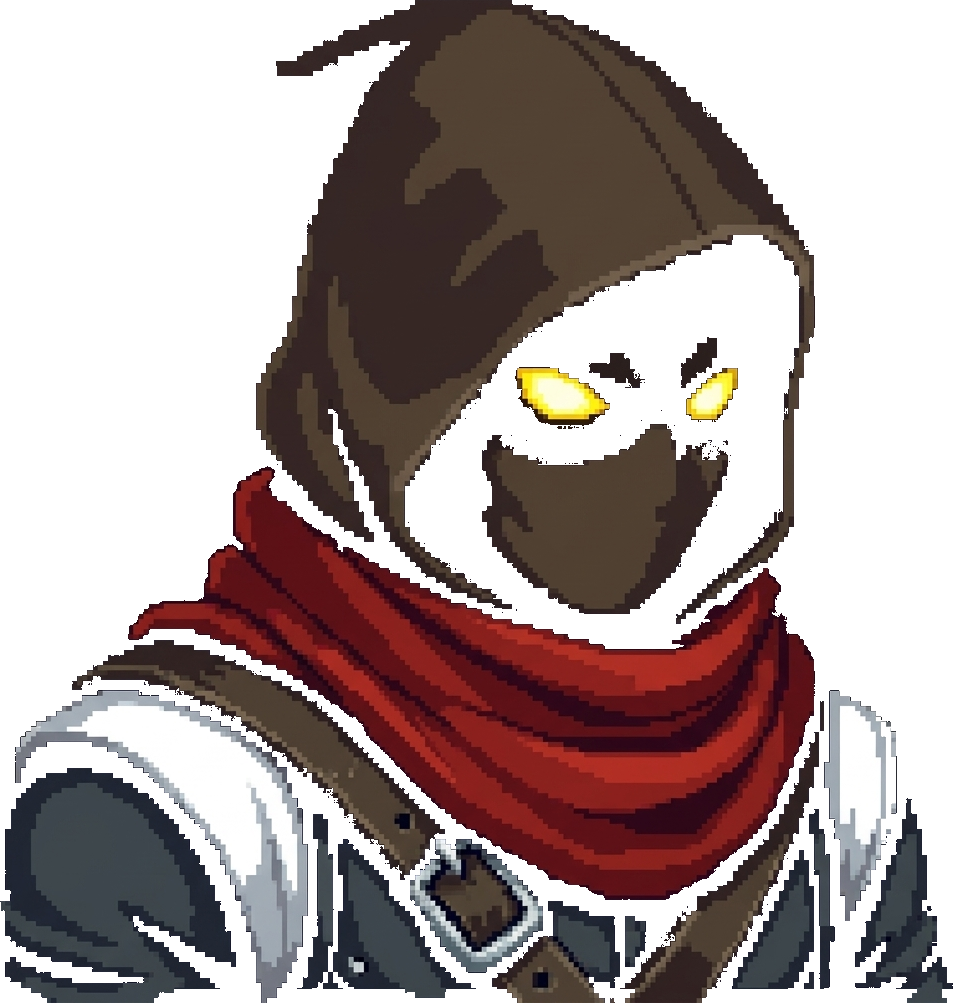
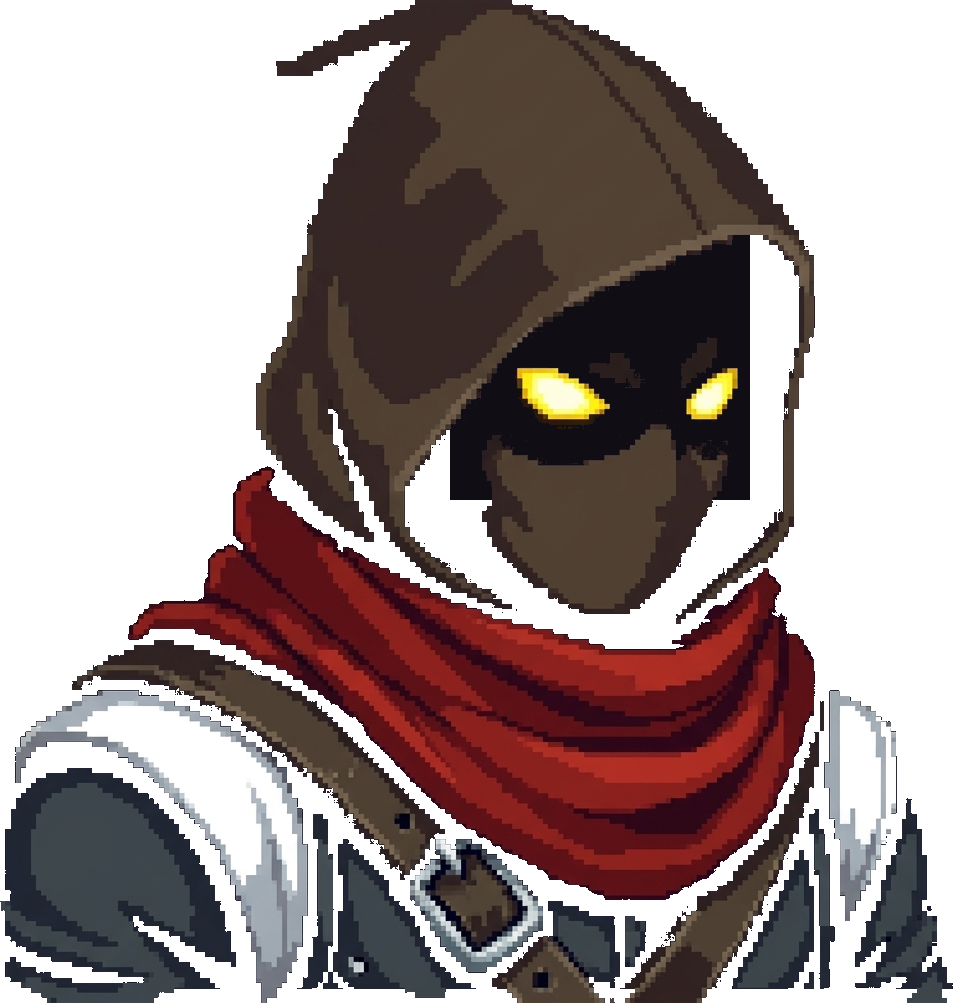
fix(combat): solidify rogue sprite, dim arena background, add victory countdown modal, and halve QTE shrink speed

Changed region(s): [[0.4565, 0.2164, 0.7912, 0.5254]]

diff --git a/src/frontends/pygame_ce/views/combat_view.py b/src/frontends/pygame_ce/views/combat_view.py
@@ -27,7 +27,7 @@ from src.core.theme import ThemeToken
 from src.frontends.pygame_ce.asset_manager import assets
 from src.frontends.pygame_ce.components.top_hud import TopHUDComponent
 from src.frontends.pygame_ce.views.base import PygameView
-from src.systems.combat import ACTION_THRESHOLD
+from src.systems.combat import ACTION_THRESHOLD, CombatResult
 from src.systems.inventory import MAX_BELT_SLOTS
 
 if TYPE_CHECKING:
@@ -64,6 +64,10 @@ class PygameCombatView(PygameView):
         self.selected_belt_idx: int = 0
 
         # Clickable rects for mouse interaction
+        self.victory_active: bool = False
+        self.victory_timer: float = 0.0
+        self.victory_duration: float = 2.5
+
         self.arena_rect = pygame.Rect(8, 56, 944, 176)
         self.speed_btn_rect = pygame.Rect(860, 64, 84, 26)
         self.belt_rects = [
@@ -93,6 +97,10 @@ class PygameCombatView(PygameView):
             return
 
         combat = session.combat
+
+        # Invalidate all player actions if battle is finished or victory modal is active
+        if self.victory_active or not combat.is_active() or combat.result != CombatResult.IN_PROGRESS:
+            return
 
         # If QTE is active, handle QTE key/mouse interaction
         if combat.is_qte_active() and combat.active_qte:
@@ -255,7 +263,38 @@ class PygameCombatView(PygameView):
             p.lifetime -= dt
         self.popups = [p for p in self.popups if p.lifetime > 0]
 
-        if not session.combat or not session.combat.is_active():
+        if not session.combat:
+            return
+
+        combat = session.combat
+
+        # 1. Player Defeat: immediately progress to defeat view (no victory modal)
+        if combat.result == CombatResult.PLAYER_DEFEAT or session.player.current_hp <= 0:
+            combat.completion_delay_ticks = 0
+            session.update_combat()
+            return
+
+        # 2. Player Victory: trigger golden victory modal and 2.5s countdown
+        if combat.result == CombatResult.PLAYER_VICTORY or (combat.enemy and combat.enemy.current_hp <= 0):
+            if not self.victory_active:
+                self.victory_active = True
+                self.victory_timer = self.victory_duration
+                try:
+                    from src.systems.audio_manager import audio_manager, AudioCue
+                    audio_manager.play_cue(AudioCue.VICTORY)
+                except Exception:
+                    pass
+
+            self.victory_timer -= dt
+            if self.victory_timer <= 0.0:
+                self.victory_active = False
+                combat.completion_delay_ticks = 0
+                session.update_combat()
+            return
+
+        if not combat.is_active():
+            combat.completion_delay_ticks = 0
+            session.update_combat()
             return
 
         # Advance QTE if active
@@ -333,6 +372,11 @@ class PygameCombatView(PygameView):
             surface.blit(arena_bg, arena_rect.topleft)
         else:
             pygame.draw.rect(surface, (18, 15, 25), arena_rect)
+
+        # Dim arena background slightly so combatant sprites pop and do not blend into scenery
+        arena_dim = pygame.Surface((arena_rect.width, arena_rect.height), pygame.SRCALPHA)
+        arena_dim.fill((0, 0, 0, 75))
+        surface.blit(arena_dim, arena_rect.topleft)
 
         # Vignette / subtle dark gradient along the top and bottom of arena
         vignette = pygame.Surface((arena_rect.width, 30), pygame.SRCALPHA)
@@ -828,6 +872,12 @@ class PygameCombatView(PygameView):
         if combat.is_qte_active() and combat.active_qte:
             self._draw_qte(surface, renderer, combat.active_qte)
 
+        # =========================================================================
+        # 8. VICTORY NOTIFICATION MODAL
+        # =========================================================================
+        if self.victory_active:
+            self._draw_victory_modal(surface, renderer, session)
+
         # Restore un-shaked surface if shake was applied
         if orig_surface != surface:
             orig_surface.blit(surface, (ox, oy))
@@ -996,3 +1046,96 @@ class PygameCombatView(PygameView):
             pygame.draw.circle(surface, (15, 15, 20), (tx, ty), br)
             pygame.draw.circle(surface, tier_col, (tx, ty), br, width=3)
             renderer.draw_text(surface, f"{target.tier.upper()} {target.score}%", tx, ty - 8, token=ThemeToken.TEXT_HIGHLIGHT, size=13, bold=True, align="center")
+
+    def _draw_victory_modal(self, surface: pygame.Surface, renderer: PygameRenderer, session: GameSession) -> None:
+        """Render centered victory notification modal with 9-slice frame, gold typography, and countdown."""
+        w, h = surface.get_width(), surface.get_height()
+        combat = session.combat
+        if not combat:
+            return
+        enemy = combat.enemy
+
+        # 1. Dark semi-transparent dim backdrop across entire screen
+        backdrop = pygame.Surface((w, h), pygame.SRCALPHA)
+        backdrop.fill((0, 0, 0, 140))
+        surface.blit(backdrop, (0, 0))
+
+        # 2. Modal dimensions and placement
+        modal_w, modal_h = 440, 160
+        modal_rect = pygame.Rect((w - modal_w) // 2, (h - modal_h) // 2, modal_w, modal_h)
+
+        # Modal solid dark gothic interior
+        modal_bg = pygame.Surface((modal_rect.width, modal_rect.height), pygame.SRCALPHA)
+        modal_bg.fill((16, 12, 24, 250))
+        surface.blit(modal_bg, modal_rect.topleft)
+
+        # Modal gold ornate frame
+        modal_frame = assets.get_9slice_frame(
+            "frame_gold_ornate_hollow",
+            modal_rect.width,
+            modal_rect.height,
+            margin=48,
+            draw_center=False,
+            edge_margin=22,
+        )
+        if modal_frame:
+            surface.blit(modal_frame, modal_rect.topleft)
+        else:
+            pygame.draw.rect(surface, (218, 165, 32), modal_rect, width=2, border_radius=6)
+
+        # 3. Text & Info
+        # Golden Victory Header
+        renderer.draw_text(
+            surface,
+            "VICTORY!",
+            modal_rect.centerx,
+            modal_rect.y + 22,
+            token=ThemeToken.TEXT_HIGHLIGHT,
+            size=22,
+            bold=True,
+            align="center",
+            font_variant="alagard",
+        )
+
+        # Enemy vanquished subtitle
+        enemy_name = enemy.name if enemy else "Enemy"
+        renderer.draw_text(
+            surface,
+            f"{enemy_name} vanquished!",
+            modal_rect.centerx,
+            modal_rect.y + 58,
+            token=ThemeToken.TEXT_NORMAL,
+            size=15,
+            bold=True,
+            align="center",
+            font_variant="alagard",
+        )
+
+        # Spoils preview (Exp and Gold)
+        exp = getattr(enemy, "exp_reward", 0)
+        gold = getattr(enemy, "gold_reward", 0)
+        spoils_txt = f"+{exp} EXP      +{gold} GOLD"
+        renderer.draw_text(
+            surface,
+            spoils_txt,
+            modal_rect.centerx,
+            modal_rect.y + 86,
+            token=ThemeToken.ACCENT_PRIMARY,
+            size=13,
+            bold=True,
+            align="center",
+            font_variant="alagard",
+        )
+
+        # Countdown to map progression
+        sec = max(1, int(math.ceil(self.victory_timer)))
+        renderer.draw_text(
+            surface,
+            f"Continuing to map in {sec}s...",
+            modal_rect.centerx,
+            modal_rect.y + 118,
+            token=ThemeToken.TEXT_MUTED,
+            size=12,
+            align="center",
+            font_variant="alagard",
+        )

diff --git a/src/systems/qte.py b/src/systems/qte.py
@@ -21,9 +21,9 @@ QTE_Y_MAX: Final[int] = 174
 QTE_BUTTON_RADIUS: Final[int] = 10
 QTE_START_RADIUS: Final[float] = 32.0
 
-# Timing constants (at 30 FPS, 22px span at 0.75..1.25 px/frame -> ~0.59s..0.98s per button)
-QTE_MIN_SHRINK_SPEED: Final[float] = 0.75
-QTE_MAX_SHRINK_SPEED: Final[float] = 1.25
+# Timing constants (decreased to half speed for balanced reaction window: ~1.2s..2.0s per button)
+QTE_MIN_SHRINK_SPEED: Final[float] = 0.375
+QTE_MAX_SHRINK_SPEED: Final[float] = 0.625
 QTE_OVERSHOOT_GRACE: Final[float] = 1.2
 QTE_INTRO_FRAMES: Final[int] = 75
 QTE_FEEDBACK_FRAMES: Final[int] = 20
@@ -58,7 +58,7 @@ class QTETarget:
     button_radius: int = QTE_BUTTON_RADIUS
     start_radius: float = QTE_START_RADIUS
     current_radius: float = QTE_START_RADIUS
-    shrink_speed: float = 0.95
+    shrink_speed: float = 0.475
     resolved: bool = False
     score: int = 0
     tier: str = ""
